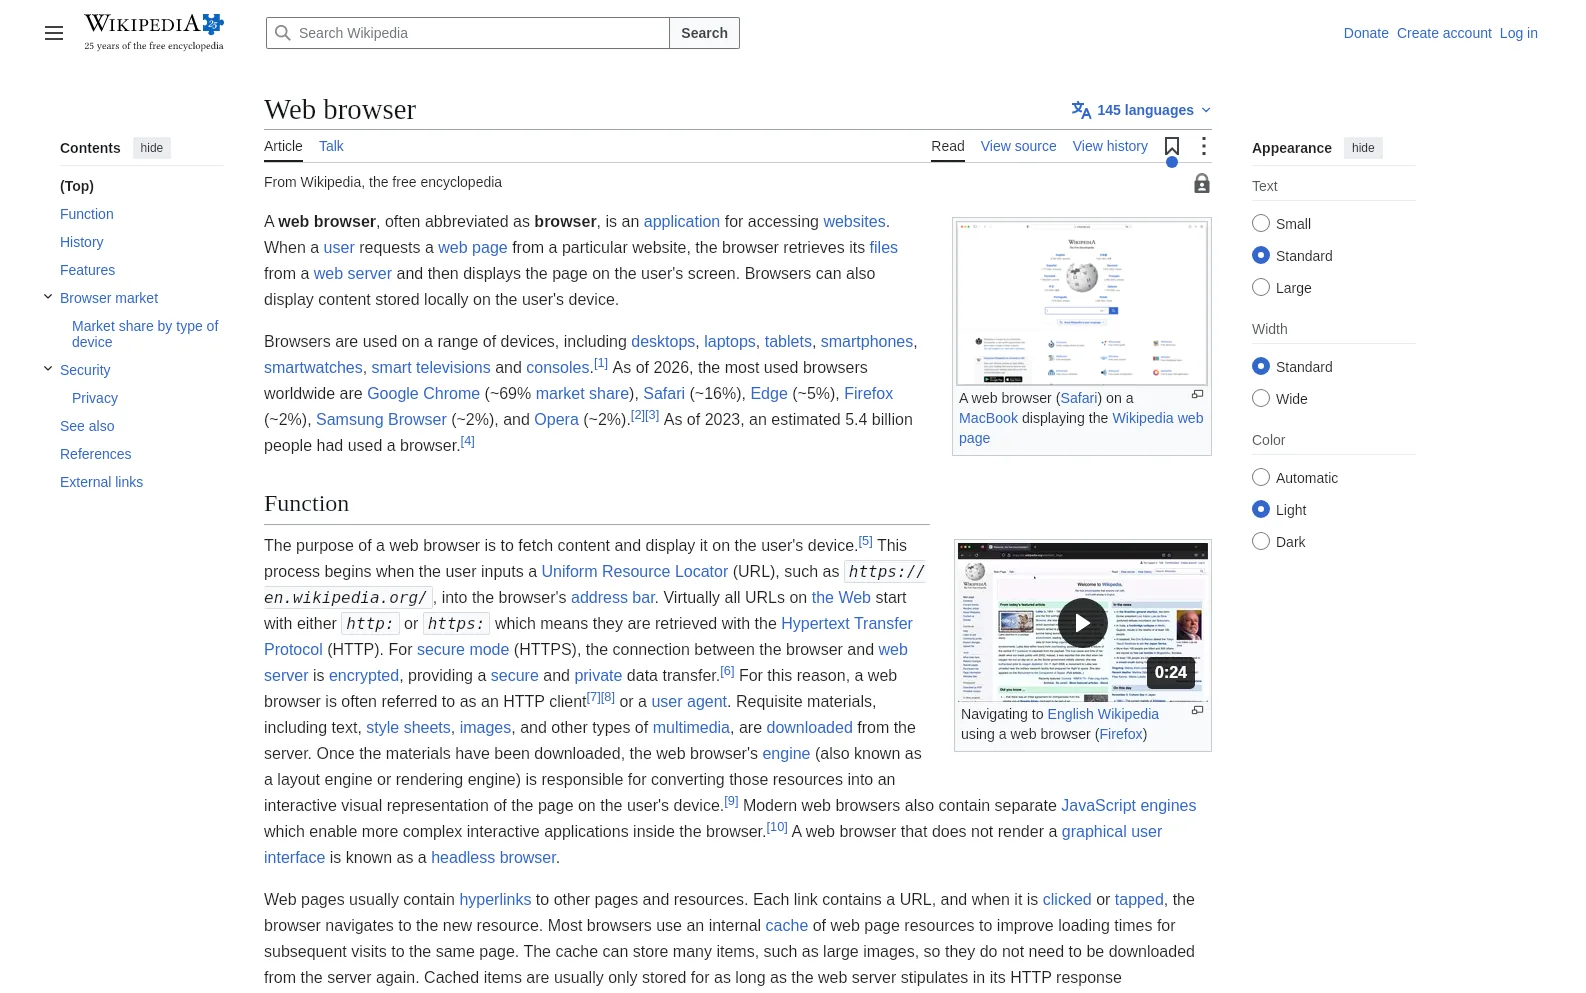
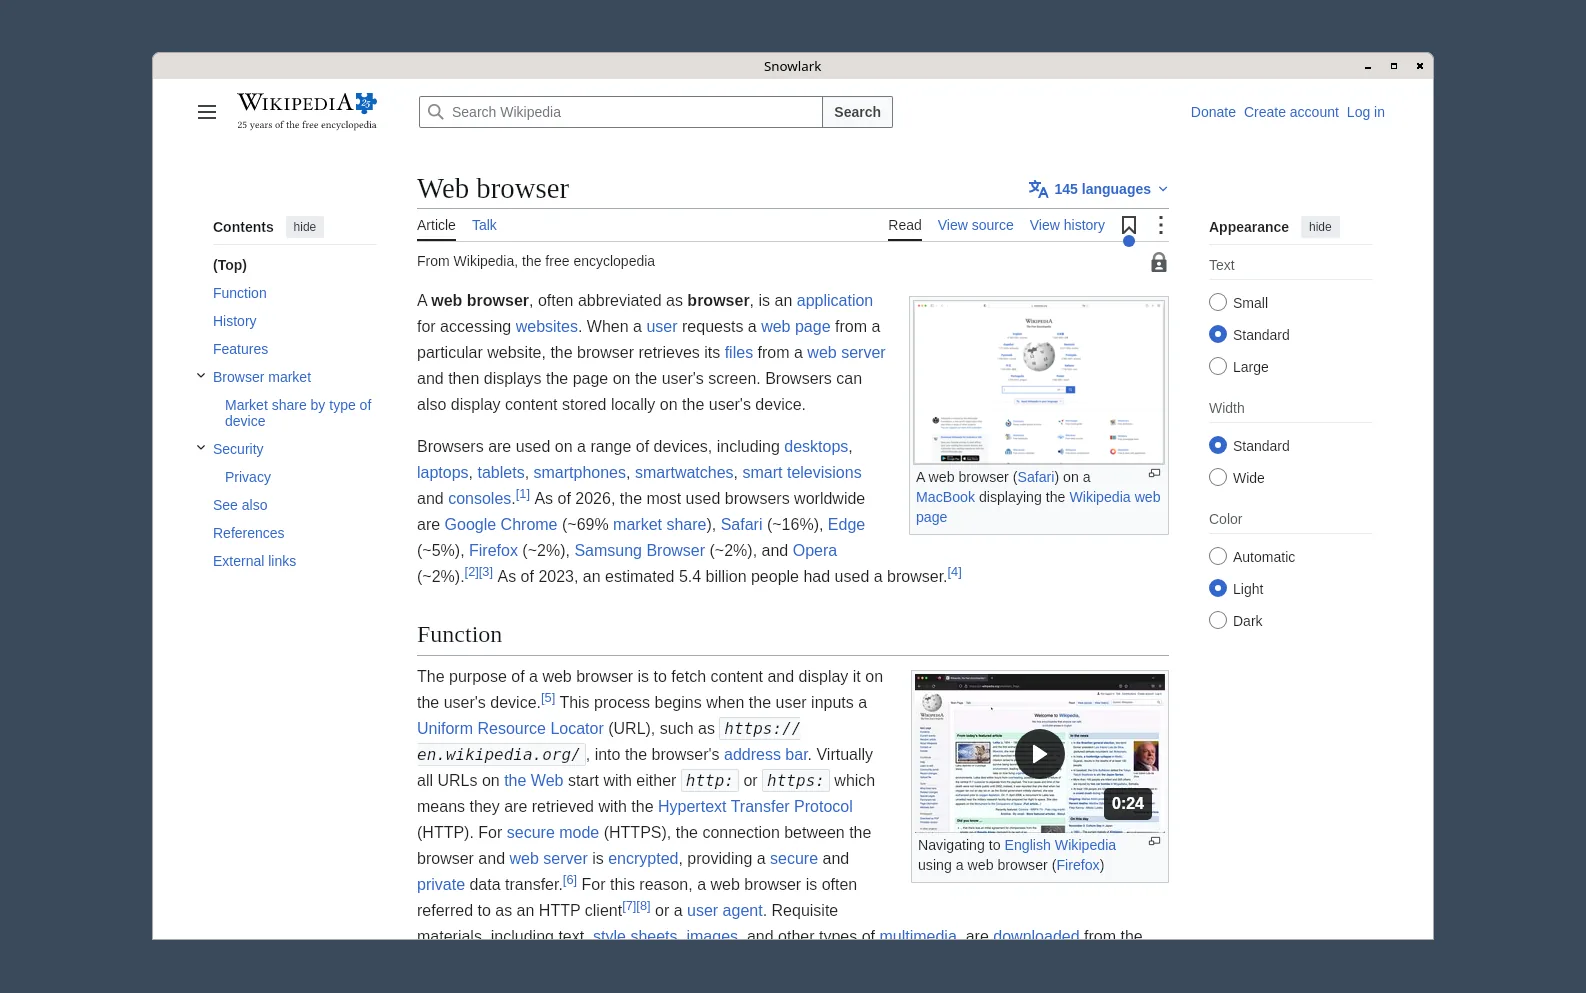
Linux screenshots: the whole window with its frame, on Debian

diff --git a/index.html b/index.html
@@ -151,12 +151,12 @@
       <figcaption>Google Maps' satellite view, drawn with WebGL: Central Park, New York.</figcaption>
     </figure>
     <figure>
-      <a href="screenshots/linux-wikipedia.webp"><img src="screenshots/linux-wikipedia.webp" width="1586" height="993" loading="lazy" alt="Wikipedia's article on web browsers in Snowlark's Wayland window on Linux"></a>
-      <figcaption>On Linux, in a Wayland window: Wikipedia's "Web browser" article (Wikipedia, CC BY-SA 4.0).</figcaption>
+      <a href="screenshots/linux-wikipedia.webp"><img src="screenshots/linux-wikipedia.webp" width="1586" height="993" loading="lazy" alt="Wikipedia's article on web browsers in Snowlark's Wayland window on Debian Linux"></a>
+      <figcaption>On Linux (Debian), in a Wayland window: Wikipedia's "Web browser" article (Wikipedia, CC BY-SA 4.0).</figcaption>
     </figure>
     <figure>
-      <a href="screenshots/linux-torvalds.webp"><img src="screenshots/linux-torvalds.webp" width="1586" height="993" loading="lazy" alt="Wikipedia's article on Linus Torvalds in Snowlark's Wayland window on Linux"></a>
-      <figcaption>On Linux, in a Wayland window: Wikipedia's "Linus Torvalds" article (Wikipedia, CC BY-SA 4.0).</figcaption>
+      <a href="screenshots/linux-torvalds.webp"><img src="screenshots/linux-torvalds.webp" width="1586" height="993" loading="lazy" alt="Wikipedia's article on Linus Torvalds in Snowlark's Wayland window on Debian Linux"></a>
+      <figcaption>On Linux (Debian), in a Wayland window: Wikipedia's "Linus Torvalds" article (Wikipedia, CC BY-SA 4.0).</figcaption>
     </figure>
   </div>
 </section>
